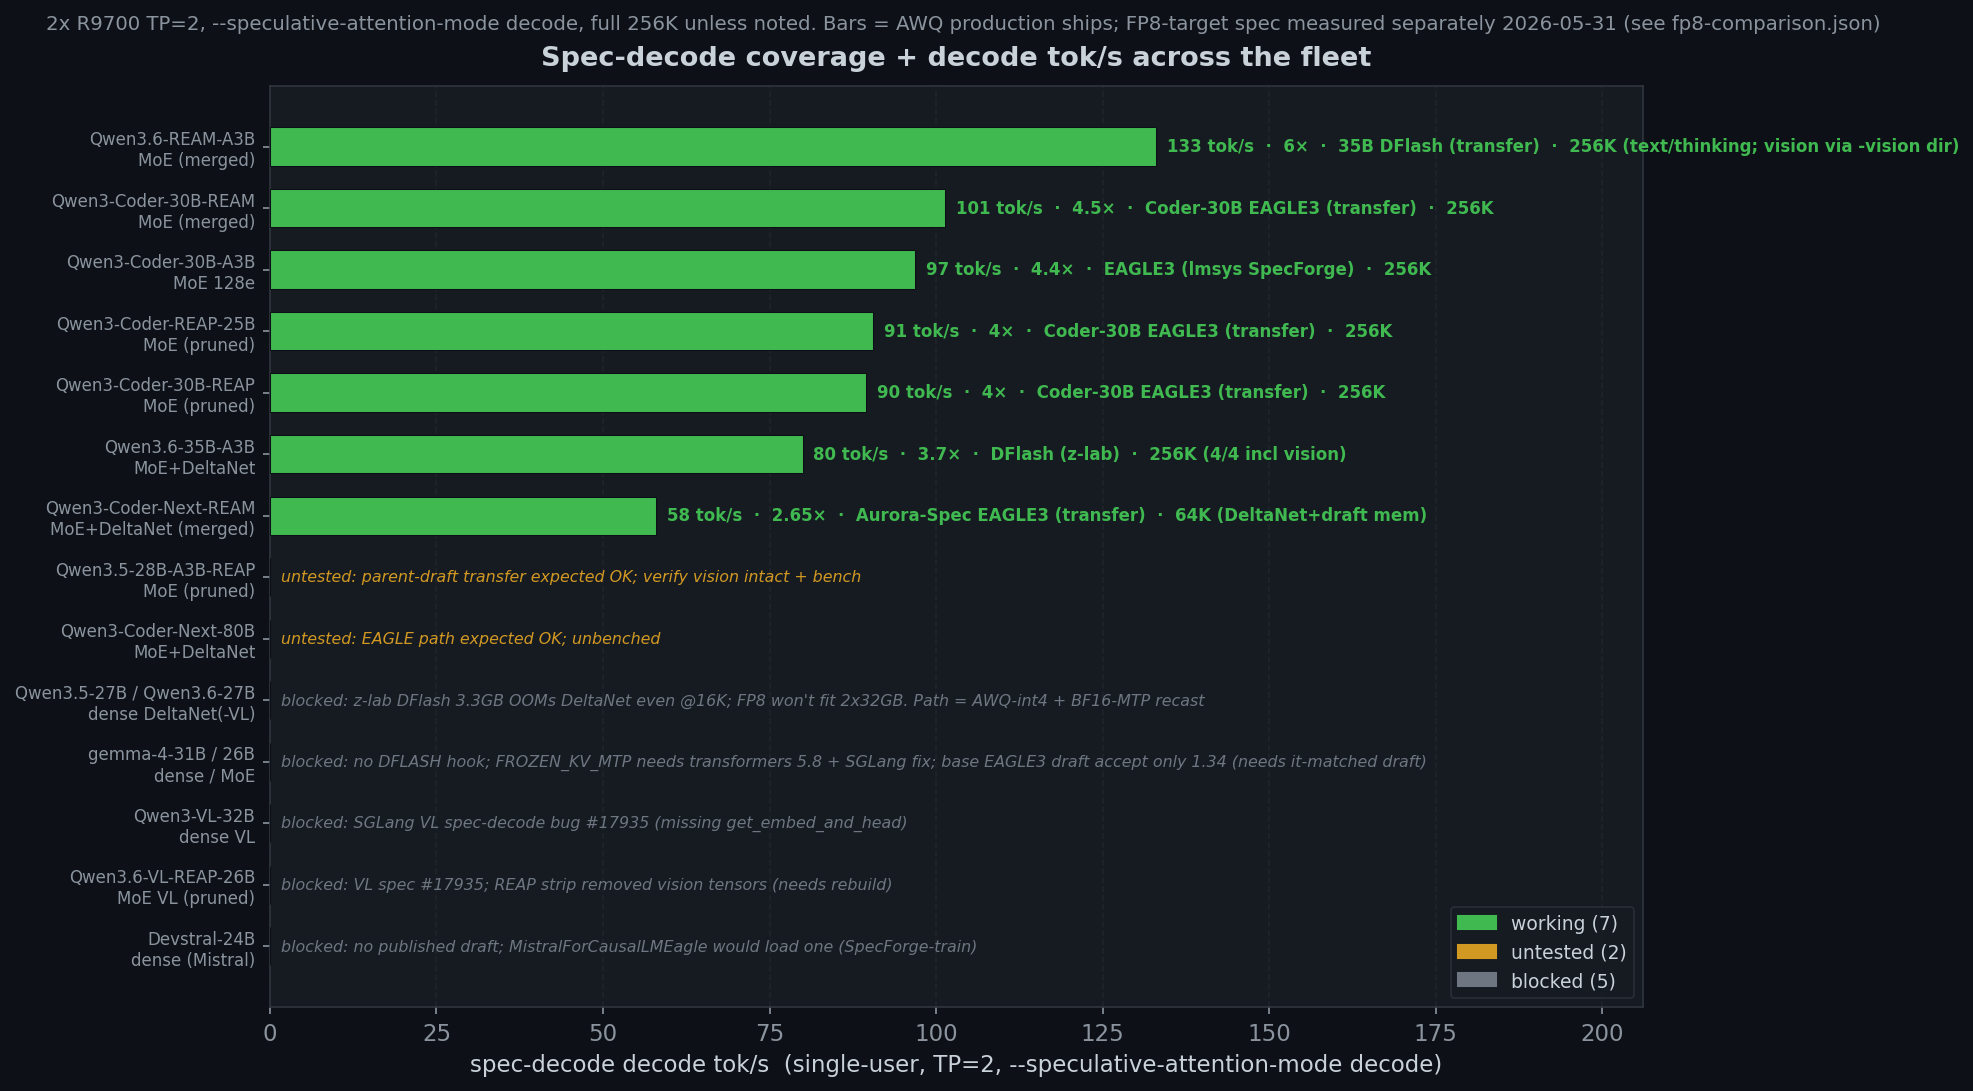
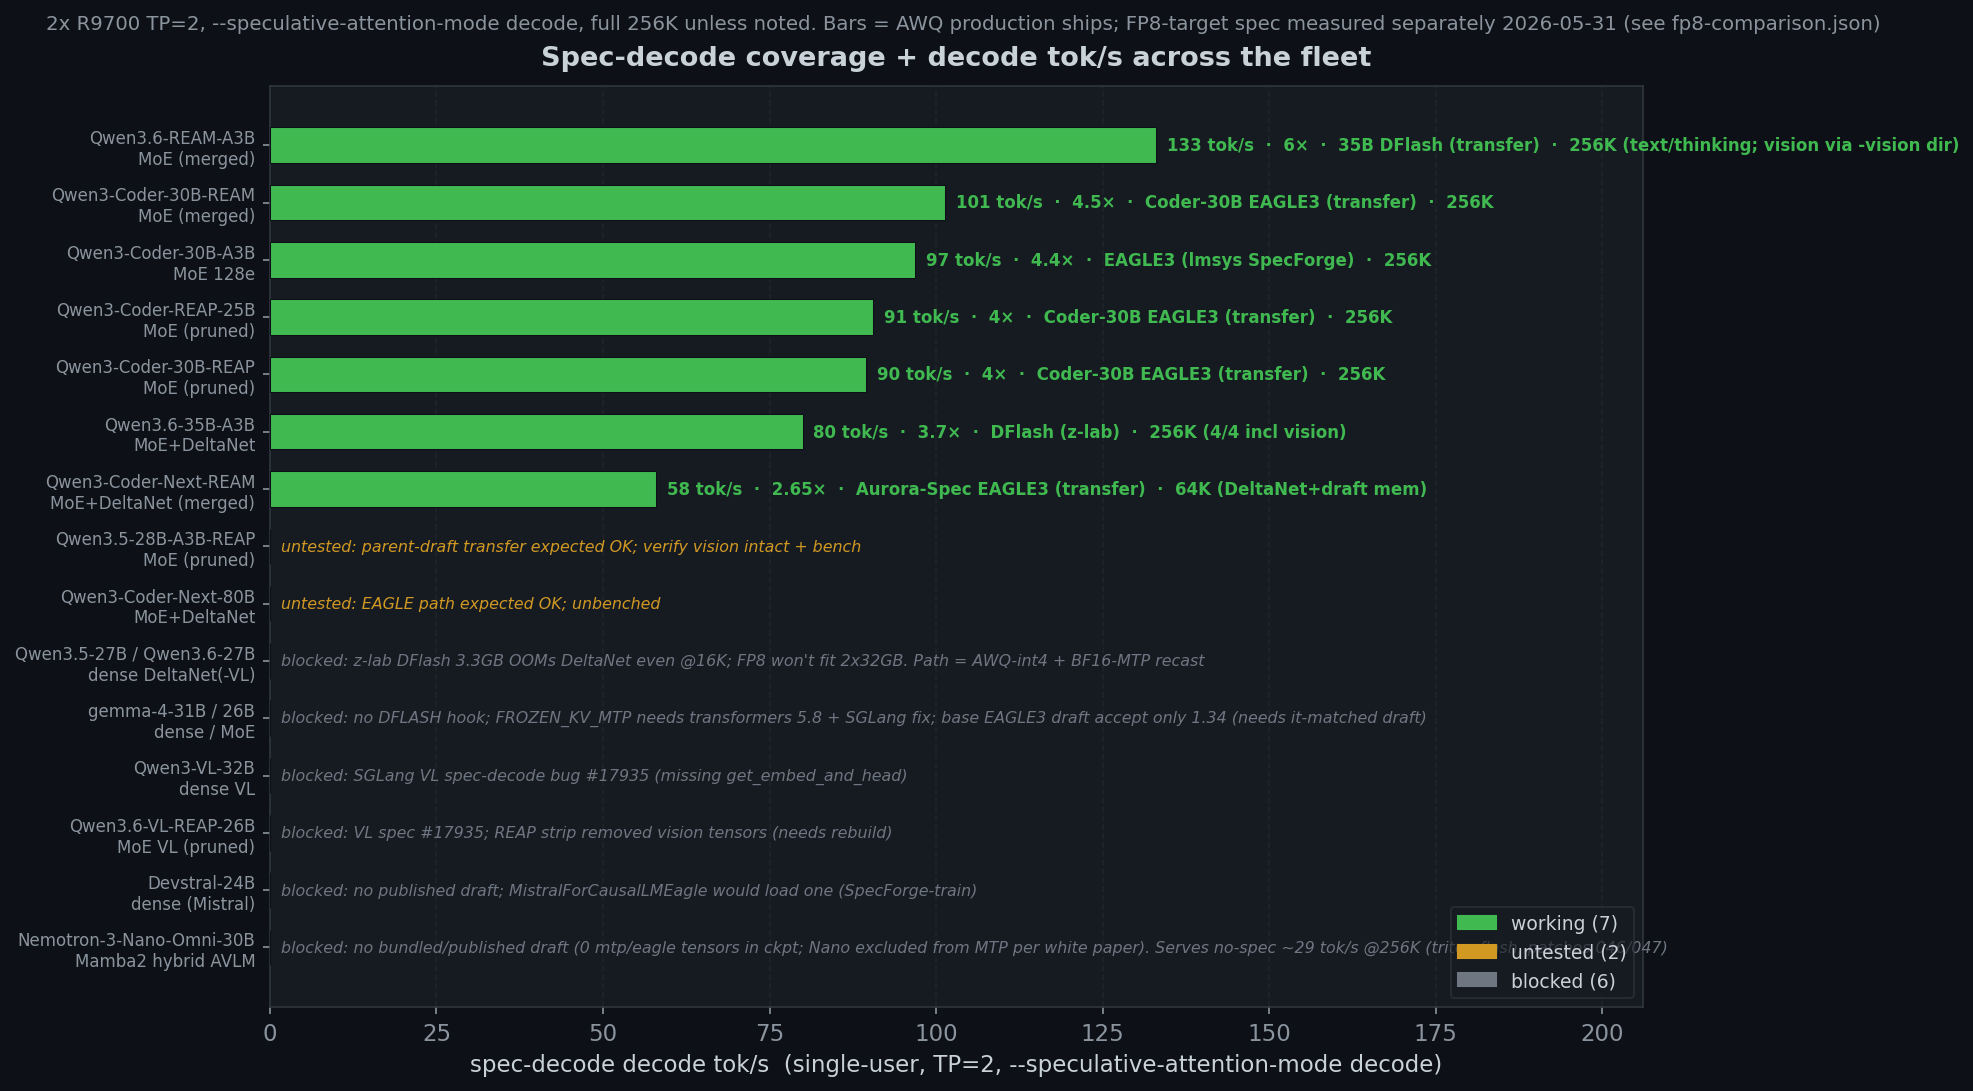
charts/data: add Nemotron-Omni (256K via triton, ~29 tok/s, no spec draft)
- fp8-comparison.json + specdecode.json: add Nemotron-3-Nano-Omni-30B entry
  (FP8-only Mamba2 hybrid AVLM, fp8_ctx_k=256, ~29 tok/s decode, awq=null,
  spec=none — no bundled/published draft).
- generate_charts.py: guard null awq_ctx_k/fp8_ctx_k in the max-context panel
  so FP8-only models (Nemotron) render an "n/a" AWQ bar instead of crashing.
- regenerate fp8_vs_awq.png + specdecode_fleet.png with Nemotron included.

diff --git a/scripts/bench/generate_charts.py b/scripts/bench/generate_charts.py
@@ -259,14 +259,16 @@ def make_fp8_comparison_chart():
 
     # Panel 2 — max context (K tokens) @ mem0.85
     for i, m in enumerate(models):
-        ax2.bar(x[i] - w / 2, m["fp8_ctx_k"], w, color=FP8C, zorder=5,
+        fctx = m["fp8_ctx_k"]
+        actx = m["awq_ctx_k"]
+        ax2.bar(x[i] - w / 2, fctx if fctx else 0, w, color=FP8C, zorder=5,
                 label="FP8 W8A8" if i == 0 else None)
-        ax2.bar(x[i] + w / 2, m["awq_ctx_k"], w, color=AWQC, zorder=5,
+        ax2.bar(x[i] + w / 2, actx if actx else 0, w, color=AWQC, zorder=5,
                 label="AWQ int4" if i == 0 else None)
-        ax2.text(x[i] - w / 2, m["fp8_ctx_k"] + 4, f'{m["fp8_ctx_k"]}K',
-                 ha="center", fontsize=8, color=FP8C, fontweight="bold")
-        ax2.text(x[i] + w / 2, m["awq_ctx_k"] + 4, f'{m["awq_ctx_k"]}K',
-                 ha="center", fontsize=8, color=AWQC, fontweight="bold")
+        ax2.text(x[i] - w / 2, (fctx + 4) if fctx else 4, (f'{fctx}K' if fctx else "n/a"),
+                 ha="center", fontsize=8, color=(FP8C if fctx else "#8b949e"), fontweight="bold")
+        ax2.text(x[i] + w / 2, (actx + 4) if actx else 4, (f'{actx}K' if actx else "n/a"),
+                 ha="center", fontsize=8, color=(AWQC if actx else "#8b949e"), fontweight="bold")
     ax2.set_xticks(x); ax2.set_xticklabels(xlabels, rotation=40, ha="right", fontsize=8)
     ax2.set_ylabel("max context @ mem0.85 (K tokens)")
     ax2.set_title("Max context — FP8 vs AWQ-int4", fontsize=13, fontweight="bold", pad=10)